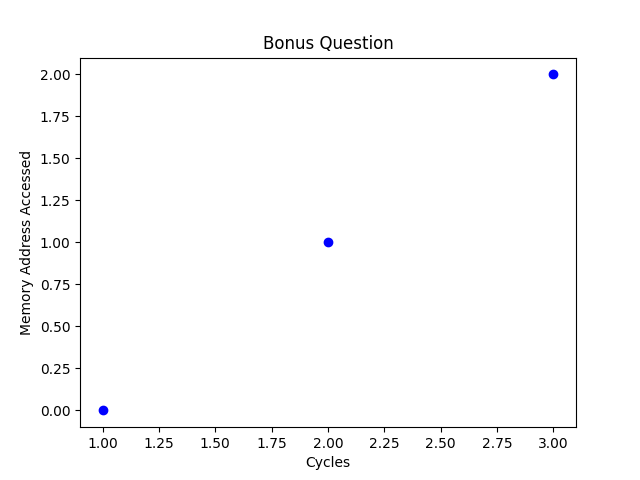
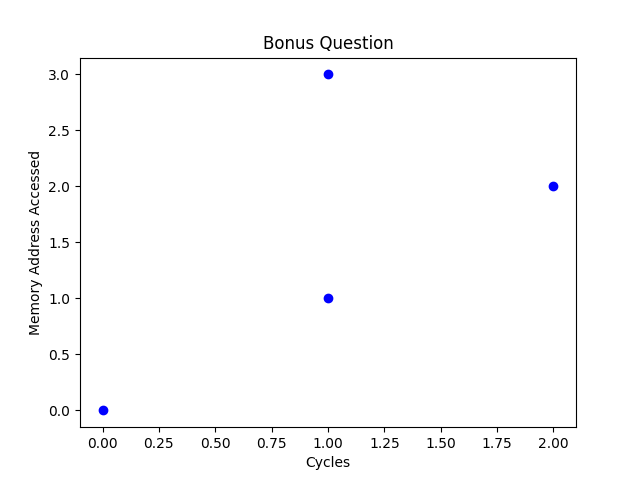
Fixed Bonus Question

diff --git a/SimpleSimulator/Functions_For_Instructions.py b/SimpleSimulator/Functions_For_Instructions.py
@@ -71,11 +71,12 @@ def move_register(instruction, PC):
 	return PC + 1
 
 
-def load(instruction, PC):
+def load(instruction, PC, cycle):
 	reg = instruction[5:8]
 	memory = instruction[8:]
 
 	# rf.setRegInt(reg, 12)
+	plt.scatter(cycle, hp.convertString2int(memory), c = "blue")
 	mem_value = mem.getMemoryBin(memory)
 	value = hp.convertString2int(mem_value)
 	rf.setRegInt(reg, value)
@@ -83,9 +84,10 @@ def load(instruction, PC):
 	return PC + 1
 
 
-def store(instruction, PC):
+def store(instruction, PC, cycle):
 	reg = instruction[5:8]
 	mem_add = instruction[8:]
+	plt.scatter(cycle, hp.convertString2int(mem_add), c = "blue")
 	# rf.setRegInt(reg, 12)
 	reg_val = rf.getReg(reg)
 	bin_rep_reg = hp.convertIntList2String(reg_val)

diff --git a/SimpleSimulator/Processing.py b/SimpleSimulator/Processing.py
@@ -3,7 +3,7 @@ import Register_File as rf
 import Helper as hp
 
 
-def process(instruction : str, PC):
+def process(instruction : str, PC, cycle):
     opcode = instruction[0:5]
     if opcode == "00000":
         return f.add(instruction, PC)
@@ -14,9 +14,9 @@ def process(instruction : str, PC):
     elif opcode == "00011":
         return f.move_register(instruction, PC)
     elif opcode == "00100":
-        return f.load(instruction, PC)
+        return f.load(instruction, PC, cycle)
     elif opcode == "00101":
-        return f.store(instruction, PC)
+        return f.store(instruction, PC, cycle)
     elif opcode == "00110":
         return f.multiply(instruction, PC)
     elif opcode == "00111":

diff --git a/SimpleSimulator/main.py b/SimpleSimulator/main.py
@@ -4,7 +4,7 @@ import Memory as mem
 import Processing as ps
 import matplotlib.pyplot as plt
 PC = 0
-cycle = 0
+cycle = -1
 
 def inp():
     count = 0
@@ -63,7 +63,7 @@ def main():
         BonusPlot(PC, cycle)
         
         refresh(instruction)
-        PC = ps.process(instruction, PC)
+        PC = ps.process(instruction, PC, cycle)
         output(oldPC)
         #output was here originally
         
